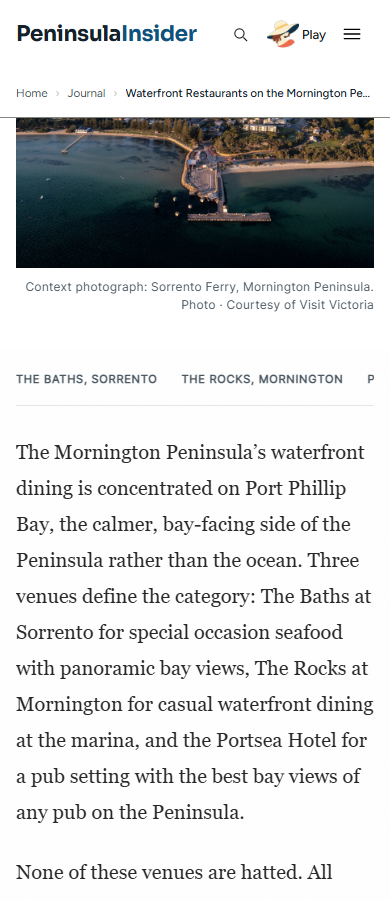
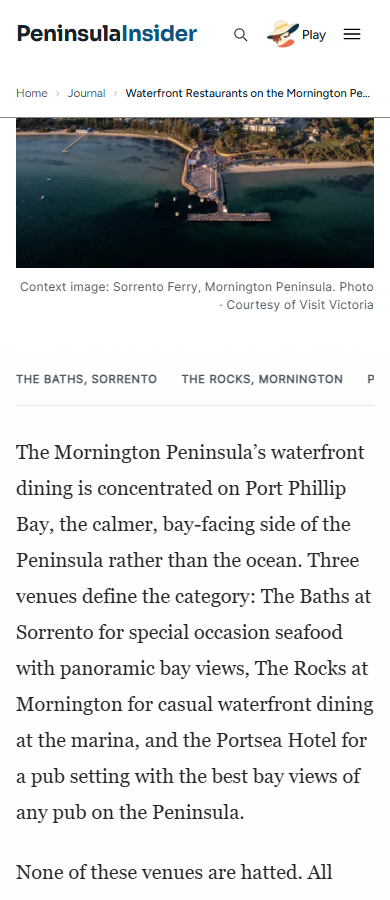
Retain selected image kind and verify CMS and standalone caption boundaries

diff --git a/review/header-captions/README.md b/review/header-captions/README.md
@@ -14,15 +14,15 @@ Journal and event templates previously added a provenance paragraph after an exi
 | Weekend, phone | [Before](before-weekend-390.png) | [After](after-weekend-390.png) |
 | Breakfast caption | [Before](before-breakfast-figure-390.png) | [After](after-breakfast-figure-390.png) |
 
-Additional checks: [event illustration](after-event-figure-390.png), [context photograph](after-context-figure-390.png), [browser receipts](browser-qa.json), [65 focused tests](focused-tests.log), [full build](build-final.log), and [type-check comparison](typecheck-comparison.json).
+Additional checks: [event illustration](after-event-figure-390.png), [context image](after-context-figure-390.png), [browser receipts](browser-qa.json), [71 focused tests](focused-tests.log), [full build](build-review.log), and [type-check comparison](typecheck-comparison.json).
 
 ## Validation
 
 - Full `npm run build` passed, including the existing source, rights, publication, provenance and reader-boundary gates, and the new rendered-caption gate. It built 1,024 pages. Local verification used the repository's existing `PI_SKIP_CMS_LIVE_READS=1` option with its baked overrides; it does not certify newly changed live CMS rows.
 - Caption admission against `origin/main` passed with zero changed-image failures. Rendered caption validation passed on 1,022 reader pages with zero failures.
-- 65 focused tests passed, covering provenance, caption rendering/admission, recovery imagery and event publication behaviour.
+- 71 focused tests passed, covering provenance, caption rendering/admission, recovery imagery and event publication behaviour.
 - Browser verification passed at 320, 390, 768, 1,024 and 1,440px: no page overflow; image loads; caption below artwork; 3px keyboard focus; calendar-link Enter activation; three menu open/Tab/Escape cycles plus the close button at each mobile/tablet width. Header text contrast is at least 8.49:1. At 390px/DPR2 the selected artwork is 1,536 pixels wide for a 358px frame.
-- `astro check` reports 225 existing errors in both the baseline and candidate. The source-file/error-code counts are unchanged. The production build succeeds; this PR does not claim a clean repository-wide type check.
+- `astro check` reports 225 existing errors in both the baseline and candidate. All 225 emitted diagnostics, including configuration files outside `src`, are counted in the comparison; file/error-code counts are unchanged. The production build succeeds; this PR does not claim a clean repository-wide type check.
 
 ## Ongoing maintenance and manual review
 
@@ -31,3 +31,16 @@ The [caption standard](../../docs/IMAGE-CAPTION-STANDARD.md), shared formatter, 
 [caption-review.json](caption-review.json) inventories 2,087 legacy metadata issues across 1,259 image records. These are mostly the newly required image-kind field (1,259), missing depiction status (360) and missing useful caption (461); seven source captions retain old boilerplate. They require asset-by-asset editorial review, not automatic relabelling. Unchanged historical records are report-only; new or edited image records with these gaps fail admission. CMS authoring remains a manual review boundary: formatting live display text does not establish image identity or rights.
 
 To repeat the local browser receipt, run `node ../review/header-captions/browser-qa.mjs` from `next/` after building and starting the preview on port 4322. Set `PUPPETEER_EXECUTABLE_PATH` if using a locally installed Chromium; `PI_CAPTION_PREVIEW_URL` can select a different local preview URL.
+
+
+## Review corrections
+
+The selected event-listing gate now checks the actual visible description plus explicit image kind and Illustration credit instead of requiring the word “illustration” inside descriptive prose. Positive and negative fixtures cover missing/generic credits, missing kind, empty captions and caption-only markers. Full content admission and the actual Mornington Racecourse Market listing assertion pass.
+
+The planning article again says “Illustrated map, not for navigation”, with an actual-record regression. String-only CMS caption normalisation preserves medium/context qualifiers; metadata-aware formatting removes only redundant labels with an equivalent visible Illustration credit. Unknown-kind itinerary/plan and Journal CMS credits use neutral “Credit”; explicit attribution and licences remain. Fixtures cover both actual itinerary/plan consumers, generic credits and captions with no metadata. Baked CMS overrides are empty; no affected live row is claimed.
+
+The built gate now also checks known standalone event, card and itinerary caption paragraphs for boilerplate, excluding scripts/styles. Duplicate-description checks remain scoped to figures and the consolidated Journal path. New arbitrary caption classes and live CMS edits still need editorial/browser review.
+
+[Repair validation](review-fixes.log) and [Journal recovery/browser journey](journal-journey.log) retain the repair receipts.
+
+Journal selection also retains image kind from the matching selected source, so a reviewed illustration with generic attribution remains labelled “Illustration”. A selected CMS replacement does not inherit the prior image's kind. An integration regression checks both cases through selection and credit rendering.

diff --git a/docs/IMAGE-CAPTION-STANDARD.md b/docs/IMAGE-CAPTION-STANDARD.md
@@ -8,6 +8,8 @@ Alt text describes visual information needed to understand the image. Preserve m
 
 ## One rendering path
 
+String-only CMS captions retain medium, context and navigational qualifiers because these rows do not establish image kind or depiction status. Only metadata-aware rendering removes a redundant illustration prefix when the adjacent credit visibly says “Illustration”. Unknown-kind CMS credits use “Credit”, preserving explicit photo/illustration and licence-required attribution wording. Itinerary cards and plan detail pages use this same credit formatter.
+
 `next/src/lib/image-presentation.mjs` provides `imageCaption` and caption-only normalisation. Journal images, including recovery choices, use it once; they do not also render a provenance badge. Shared provenance notes use the same description for contextual images on other detail/card surfaces. CMS read boundaries normalise display captions without rewriting stored source metadata. Image kind is explicit or established by a reviewed illustration credit, never inferred merely from a generated directory or an SVG extension. Existing raw provenance fields and generation history remain in the source record.
 
 ## Admission and ongoing maintenance
@@ -19,5 +21,7 @@ New or edited image records fail admission if image kind, depiction status, desc
 All importers and image-generation tasks must supply these fields before running admission. In particular, the event-source adapters, Visit Victoria page-image sync and image-intelligence pilot must preserve factual identity, credits and licences; generated candidates remain unapproved until viewed. Their existing review/admission flow owns approval. This task introduces no scheduled publisher or new service. For a new renderer, add a regression case and use the shared caption formatter rather than constructing disclaimer prose in the template.
 
 ## Review checklist
+
+The built gate checks duplicate descriptions within figures and known standalone caption paragraphs (`event-image-credit`, `pi-card__image-note`, `itinerary-card__photo-credit`, `itinerary-detail__image-credit`) for boilerplate. It excludes scripts, styles and metadata. Arbitrary future caption classes and live CMS updates still need source regression coverage and editorial/browser review; this gate is not proof of universal live CMS coverage.
 
 View desktop and phone output, including image failure/recovery and client navigation. Check that one image has one description, attribution is readable and present, captions do not overlap artwork, alt text survives, and contextual imagery cannot be mistaken for evidence of a named business/event. Run the existing image-rights and content checks as well as the caption gate. Publication follows the existing human approval process.
